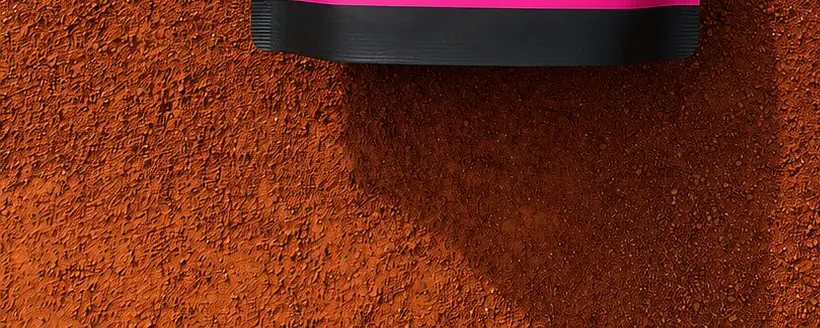
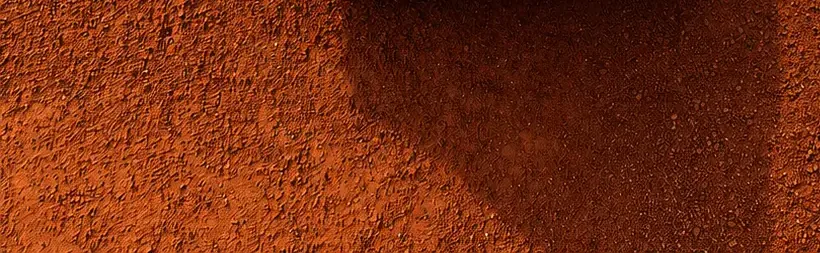
Remove sports marquee band for a cleaner look
Also crop the bag edge out of the clay background texture, which the
band used to cover.

Claude-Session: https://claude.ai/code/session_01EPsi3iTHrtXS3a7TriiJcg

diff --git a/public/index.html b/public/index.html
@@ -61,12 +61,6 @@
   </div>
 </section>
 
-<div class="band" aria-hidden="true">
-  <div class="band-track" id="bandTrack">
-    <span>Tennis</span><i><svg viewBox="-1.25 -.75 2.5 1.5"><path d="M1.0000 0.0000 L0.9979 0.0751 L0.9914 0.1488 L0.9808 0.2200 L0.9659 0.2875 L0.9469 0.3500 L0.9239 0.4066 L0.8969 0.4562 L0.8660 0.4980 L0.8315 0.5312 L0.7934 0.5554 L0.7518 0.5701 L0.7071 0.5750 L0.6593 0.5701 L0.6088 0.5554 L0.5556 0.5312 L0.5000 0.4980 L0.4423 0.4562 L0.3827 0.4066 L0.3214 0.3500 L0.2588 0.2875 L0.1951 0.2200 L0.1305 0.1488 L0.0654 0.0751 L0.0000 0.0000 L-0.0654 -0.0751 L-0.1305 -0.1488 L-0.1951 -0.2200 L-0.2588 -0.2875 L-0.3214 -0.3500 L-0.3827 -0.4066 L-0.4423 -0.4562 L-0.5000 -0.4980 L-0.5556 -0.5312 L-0.6088 -0.5554 L-0.6593 -0.5701 L-0.7071 -0.5750 L-0.7518 -0.5701 L-0.7934 -0.5554 L-0.8315 -0.5312 L-0.8660 -0.4980 L-0.8969 -0.4562 L-0.9239 -0.4066 L-0.9469 -0.3500 L-0.9659 -0.2875 L-0.9808 -0.2200 L-0.9914 -0.1488 L-0.9979 -0.0751 L-1.0000 -0.0000 L-0.9979 0.0751 L-0.9914 0.1488 L-0.9808 0.2200 L-0.9659 0.2875 L-0.9469 0.3500 L-0.9239 0.4066 L-0.8969 0.4562 L-0.8660 0.4980 L-0.8315 0.5312 L-0.7934 0.5554 L-0.7518 0.5701 L-0.7071 0.5750 L-0.6593 0.5701 L-0.6088 0.5554 L-0.5556 0.5312 L-0.5000 0.4980 L-0.4423 0.4562 L-0.3827 0.4066 L-0.3214 0.3500 L-0.2588 0.2875 L-0.1951 0.2200 L-0.1305 0.1488 L-0.0654 0.0751 L-0.0000 0.0000 L0.0654 -0.0751 L0.1305 -0.1488 L0.1951 -0.2200 L0.2588 -0.2875 L0.3214 -0.3500 L0.3827 -0.4066 L0.4423 -0.4562 L0.5000 -0.4980 L0.5556 -0.5312 L0.6088 -0.5554 L0.6593 -0.5701 L0.7071 -0.5750 L0.7518 -0.5701 L0.7934 -0.5554 L0.8315 -0.5312 L0.8660 -0.4980 L0.8969 -0.4562 L0.9239 -0.4066 L0.9469 -0.3500 L0.9659 -0.2875 L0.9808 -0.2200 L0.9914 -0.1488 L0.9979 -0.0751Z"/></svg></i><span>Padel</span><i><svg viewBox="-1.25 -.75 2.5 1.5"><path d="M1.0000 0.0000 L0.9979 0.0751 L0.9914 0.1488 L0.9808 0.2200 L0.9659 0.2875 L0.9469 0.3500 L0.9239 0.4066 L0.8969 0.4562 L0.8660 0.4980 L0.8315 0.5312 L0.7934 0.5554 L0.7518 0.5701 L0.7071 0.5750 L0.6593 0.5701 L0.6088 0.5554 L0.5556 0.5312 L0.5000 0.4980 L0.4423 0.4562 L0.3827 0.4066 L0.3214 0.3500 L0.2588 0.2875 L0.1951 0.2200 L0.1305 0.1488 L0.0654 0.0751 L0.0000 0.0000 L-0.0654 -0.0751 L-0.1305 -0.1488 L-0.1951 -0.2200 L-0.2588 -0.2875 L-0.3214 -0.3500 L-0.3827 -0.4066 L-0.4423 -0.4562 L-0.5000 -0.4980 L-0.5556 -0.5312 L-0.6088 -0.5554 L-0.6593 -0.5701 L-0.7071 -0.5750 L-0.7518 -0.5701 L-0.7934 -0.5554 L-0.8315 -0.5312 L-0.8660 -0.4980 L-0.8969 -0.4562 L-0.9239 -0.4066 L-0.9469 -0.3500 L-0.9659 -0.2875 L-0.9808 -0.2200 L-0.9914 -0.1488 L-0.9979 -0.0751 L-1.0000 -0.0000 L-0.9979 0.0751 L-0.9914 0.1488 L-0.9808 0.2200 L-0.9659 0.2875 L-0.9469 0.3500 L-0.9239 0.4066 L-0.8969 0.4562 L-0.8660 0.4980 L-0.8315 0.5312 L-0.7934 0.5554 L-0.7518 0.5701 L-0.7071 0.5750 L-0.6593 0.5701 L-0.6088 0.5554 L-0.5556 0.5312 L-0.5000 0.4980 L-0.4423 0.4562 L-0.3827 0.4066 L-0.3214 0.3500 L-0.2588 0.2875 L-0.1951 0.2200 L-0.1305 0.1488 L-0.0654 0.0751 L-0.0000 0.0000 L0.0654 -0.0751 L0.1305 -0.1488 L0.1951 -0.2200 L0.2588 -0.2875 L0.3214 -0.3500 L0.3827 -0.4066 L0.4423 -0.4562 L0.5000 -0.4980 L0.5556 -0.5312 L0.6088 -0.5554 L0.6593 -0.5701 L0.7071 -0.5750 L0.7518 -0.5701 L0.7934 -0.5554 L0.8315 -0.5312 L0.8660 -0.4980 L0.8969 -0.4562 L0.9239 -0.4066 L0.9469 -0.3500 L0.9659 -0.2875 L0.9808 -0.2200 L0.9914 -0.1488 L0.9979 -0.0751Z"/></svg></i><span>Squash</span><i><svg viewBox="-1.25 -.75 2.5 1.5"><path d="M1.0000 0.0000 L0.9979 0.0751 L0.9914 0.1488 L0.9808 0.2200 L0.9659 0.2875 L0.9469 0.3500 L0.9239 0.4066 L0.8969 0.4562 L0.8660 0.4980 L0.8315 0.5312 L0.7934 0.5554 L0.7518 0.5701 L0.7071 0.5750 L0.6593 0.5701 L0.6088 0.5554 L0.5556 0.5312 L0.5000 0.4980 L0.4423 0.4562 L0.3827 0.4066 L0.3214 0.3500 L0.2588 0.2875 L0.1951 0.2200 L0.1305 0.1488 L0.0654 0.0751 L0.0000 0.0000 L-0.0654 -0.0751 L-0.1305 -0.1488 L-0.1951 -0.2200 L-0.2588 -0.2875 L-0.3214 -0.3500 L-0.3827 -0.4066 L-0.4423 -0.4562 L-0.5000 -0.4980 L-0.5556 -0.5312 L-0.6088 -0.5554 L-0.6593 -0.5701 L-0.7071 -0.5750 L-0.7518 -0.5701 L-0.7934 -0.5554 L-0.8315 -0.5312 L-0.8660 -0.4980 L-0.8969 -0.4562 L-0.9239 -0.4066 L-0.9469 -0.3500 L-0.9659 -0.2875 L-0.9808 -0.2200 L-0.9914 -0.1488 L-0.9979 -0.0751 L-1.0000 -0.0000 L-0.9979 0.0751 L-0.9914 0.1488 L-0.9808 0.2200 L-0.9659 0.2875 L-0.9469 0.3500 L-0.9239 0.4066 L-0.8969 0.4562 L-0.8660 0.4980 L-0.8315 0.5312 L-0.7934 0.5554 L-0.7518 0.5701 L-0.7071 0.5750 L-0.6593 0.5701 L-0.6088 0.5554 L-0.5556 0.5312 L-0.5000 0.4980 L-0.4423 0.4562 L-0.3827 0.4066 L-0.3214 0.3500 L-0.2588 0.2875 L-0.1951 0.2200 L-0.1305 0.1488 L-0.0654 0.0751 L-0.0000 0.0000 L0.0654 -0.0751 L0.1305 -0.1488 L0.1951 -0.2200 L0.2588 -0.2875 L0.3214 -0.3500 L0.3827 -0.4066 L0.4423 -0.4562 L0.5000 -0.4980 L0.5556 -0.5312 L0.6088 -0.5554 L0.6593 -0.5701 L0.7071 -0.5750 L0.7518 -0.5701 L0.7934 -0.5554 L0.8315 -0.5312 L0.8660 -0.4980 L0.8969 -0.4562 L0.9239 -0.4066 L0.9469 -0.3500 L0.9659 -0.2875 L0.9808 -0.2200 L0.9914 -0.1488 L0.9979 -0.0751Z"/></svg></i><span>Badminton</span><i><svg viewBox="-1.25 -.75 2.5 1.5"><path d="M1.0000 0.0000 L0.9979 0.0751 L0.9914 0.1488 L0.9808 0.2200 L0.9659 0.2875 L0.9469 0.3500 L0.9239 0.4066 L0.8969 0.4562 L0.8660 0.4980 L0.8315 0.5312 L0.7934 0.5554 L0.7518 0.5701 L0.7071 0.5750 L0.6593 0.5701 L0.6088 0.5554 L0.5556 0.5312 L0.5000 0.4980 L0.4423 0.4562 L0.3827 0.4066 L0.3214 0.3500 L0.2588 0.2875 L0.1951 0.2200 L0.1305 0.1488 L0.0654 0.0751 L0.0000 0.0000 L-0.0654 -0.0751 L-0.1305 -0.1488 L-0.1951 -0.2200 L-0.2588 -0.2875 L-0.3214 -0.3500 L-0.3827 -0.4066 L-0.4423 -0.4562 L-0.5000 -0.4980 L-0.5556 -0.5312 L-0.6088 -0.5554 L-0.6593 -0.5701 L-0.7071 -0.5750 L-0.7518 -0.5701 L-0.7934 -0.5554 L-0.8315 -0.5312 L-0.8660 -0.4980 L-0.8969 -0.4562 L-0.9239 -0.4066 L-0.9469 -0.3500 L-0.9659 -0.2875 L-0.9808 -0.2200 L-0.9914 -0.1488 L-0.9979 -0.0751 L-1.0000 -0.0000 L-0.9979 0.0751 L-0.9914 0.1488 L-0.9808 0.2200 L-0.9659 0.2875 L-0.9469 0.3500 L-0.9239 0.4066 L-0.8969 0.4562 L-0.8660 0.4980 L-0.8315 0.5312 L-0.7934 0.5554 L-0.7518 0.5701 L-0.7071 0.5750 L-0.6593 0.5701 L-0.6088 0.5554 L-0.5556 0.5312 L-0.5000 0.4980 L-0.4423 0.4562 L-0.3827 0.4066 L-0.3214 0.3500 L-0.2588 0.2875 L-0.1951 0.2200 L-0.1305 0.1488 L-0.0654 0.0751 L-0.0000 0.0000 L0.0654 -0.0751 L0.1305 -0.1488 L0.1951 -0.2200 L0.2588 -0.2875 L0.3214 -0.3500 L0.3827 -0.4066 L0.4423 -0.4562 L0.5000 -0.4980 L0.5556 -0.5312 L0.6088 -0.5554 L0.6593 -0.5701 L0.7071 -0.5750 L0.7518 -0.5701 L0.7934 -0.5554 L0.8315 -0.5312 L0.8660 -0.4980 L0.8969 -0.4562 L0.9239 -0.4066 L0.9469 -0.3500 L0.9659 -0.2875 L0.9808 -0.2200 L0.9914 -0.1488 L0.9979 -0.0751Z"/></svg></i><span>Tischtennis</span><i><svg viewBox="-1.25 -.75 2.5 1.5"><path d="M1.0000 0.0000 L0.9979 0.0751 L0.9914 0.1488 L0.9808 0.2200 L0.9659 0.2875 L0.9469 0.3500 L0.9239 0.4066 L0.8969 0.4562 L0.8660 0.4980 L0.8315 0.5312 L0.7934 0.5554 L0.7518 0.5701 L0.7071 0.5750 L0.6593 0.5701 L0.6088 0.5554 L0.5556 0.5312 L0.5000 0.4980 L0.4423 0.4562 L0.3827 0.4066 L0.3214 0.3500 L0.2588 0.2875 L0.1951 0.2200 L0.1305 0.1488 L0.0654 0.0751 L0.0000 0.0000 L-0.0654 -0.0751 L-0.1305 -0.1488 L-0.1951 -0.2200 L-0.2588 -0.2875 L-0.3214 -0.3500 L-0.3827 -0.4066 L-0.4423 -0.4562 L-0.5000 -0.4980 L-0.5556 -0.5312 L-0.6088 -0.5554 L-0.6593 -0.5701 L-0.7071 -0.5750 L-0.7518 -0.5701 L-0.7934 -0.5554 L-0.8315 -0.5312 L-0.8660 -0.4980 L-0.8969 -0.4562 L-0.9239 -0.4066 L-0.9469 -0.3500 L-0.9659 -0.2875 L-0.9808 -0.2200 L-0.9914 -0.1488 L-0.9979 -0.0751 L-1.0000 -0.0000 L-0.9979 0.0751 L-0.9914 0.1488 L-0.9808 0.2200 L-0.9659 0.2875 L-0.9469 0.3500 L-0.9239 0.4066 L-0.8969 0.4562 L-0.8660 0.4980 L-0.8315 0.5312 L-0.7934 0.5554 L-0.7518 0.5701 L-0.7071 0.5750 L-0.6593 0.5701 L-0.6088 0.5554 L-0.5556 0.5312 L-0.5000 0.4980 L-0.4423 0.4562 L-0.3827 0.4066 L-0.3214 0.3500 L-0.2588 0.2875 L-0.1951 0.2200 L-0.1305 0.1488 L-0.0654 0.0751 L-0.0000 0.0000 L0.0654 -0.0751 L0.1305 -0.1488 L0.1951 -0.2200 L0.2588 -0.2875 L0.3214 -0.3500 L0.3827 -0.4066 L0.4423 -0.4562 L0.5000 -0.4980 L0.5556 -0.5312 L0.6088 -0.5554 L0.6593 -0.5701 L0.7071 -0.5750 L0.7518 -0.5701 L0.7934 -0.5554 L0.8315 -0.5312 L0.8660 -0.4980 L0.8969 -0.4562 L0.9239 -0.4066 L0.9469 -0.3500 L0.9659 -0.2875 L0.9808 -0.2200 L0.9914 -0.1488 L0.9979 -0.0751Z"/></svg></i><span>Pickleball</span><i><svg viewBox="-1.25 -.75 2.5 1.5"><path d="M1.0000 0.0000 L0.9979 0.0751 L0.9914 0.1488 L0.9808 0.2200 L0.9659 0.2875 L0.9469 0.3500 L0.9239 0.4066 L0.8969 0.4562 L0.8660 0.4980 L0.8315 0.5312 L0.7934 0.5554 L0.7518 0.5701 L0.7071 0.5750 L0.6593 0.5701 L0.6088 0.5554 L0.5556 0.5312 L0.5000 0.4980 L0.4423 0.4562 L0.3827 0.4066 L0.3214 0.3500 L0.2588 0.2875 L0.1951 0.2200 L0.1305 0.1488 L0.0654 0.0751 L0.0000 0.0000 L-0.0654 -0.0751 L-0.1305 -0.1488 L-0.1951 -0.2200 L-0.2588 -0.2875 L-0.3214 -0.3500 L-0.3827 -0.4066 L-0.4423 -0.4562 L-0.5000 -0.4980 L-0.5556 -0.5312 L-0.6088 -0.5554 L-0.6593 -0.5701 L-0.7071 -0.5750 L-0.7518 -0.5701 L-0.7934 -0.5554 L-0.8315 -0.5312 L-0.8660 -0.4980 L-0.8969 -0.4562 L-0.9239 -0.4066 L-0.9469 -0.3500 L-0.9659 -0.2875 L-0.9808 -0.2200 L-0.9914 -0.1488 L-0.9979 -0.0751 L-1.0000 -0.0000 L-0.9979 0.0751 L-0.9914 0.1488 L-0.9808 0.2200 L-0.9659 0.2875 L-0.9469 0.3500 L-0.9239 0.4066 L-0.8969 0.4562 L-0.8660 0.4980 L-0.8315 0.5312 L-0.7934 0.5554 L-0.7518 0.5701 L-0.7071 0.5750 L-0.6593 0.5701 L-0.6088 0.5554 L-0.5556 0.5312 L-0.5000 0.4980 L-0.4423 0.4562 L-0.3827 0.4066 L-0.3214 0.3500 L-0.2588 0.2875 L-0.1951 0.2200 L-0.1305 0.1488 L-0.0654 0.0751 L-0.0000 0.0000 L0.0654 -0.0751 L0.1305 -0.1488 L0.1951 -0.2200 L0.2588 -0.2875 L0.3214 -0.3500 L0.3827 -0.4066 L0.4423 -0.4562 L0.5000 -0.4980 L0.5556 -0.5312 L0.6088 -0.5554 L0.6593 -0.5701 L0.7071 -0.5750 L0.7518 -0.5701 L0.7934 -0.5554 L0.8315 -0.5312 L0.8660 -0.4980 L0.8969 -0.4562 L0.9239 -0.4066 L0.9469 -0.3500 L0.9659 -0.2875 L0.9808 -0.2200 L0.9914 -0.1488 L0.9979 -0.0751Z"/></svg></i>
-  </div>
-</div>
-
 <section class="clay" id="platz">
   <div class="court-line top" id="courtLine"></div>
   <div class="wrap">

diff --git a/public/assets/site.css b/public/assets/site.css
@@ -102,16 +102,8 @@ h2.display{font-size:clamp(2.9rem,8.4vw,6.6rem)}
   .hero .bag{width:40vw;max-width:230px}
 }
 
-/* Laufband */
-.band{position:relative;z-index:4;background:var(--magenta);color:var(--black);transform:rotate(-2deg) scale(1.04);margin-block:-18px 0;overflow:hidden;padding-block:10px}
-.band-track{display:flex;width:max-content;font-family:var(--display);font-style:italic;font-weight:900;text-transform:uppercase;font-size:clamp(2rem,5vw,3.6rem);line-height:1;white-space:nowrap;will-change:transform}
-.band-track span{padding-inline:.45em}
-.band-track i{font-style:normal;display:inline-block;width:.95em;align-self:center;line-height:0}
-.band-track i svg{width:100%;height:auto;overflow:visible}
-.band-track i path{fill:none;stroke:var(--black);stroke-width:.34}
-
 /* Sandplatz */
-.clay{position:relative;background:var(--clay) url("clay.webp") center/cover;color:var(--line);overflow:hidden;margin-top:-30px;padding-block:clamp(110px,14vw,190px) clamp(80px,10vw,140px)}
+.clay{position:relative;background:var(--clay) url("clay.webp") center/cover;color:var(--line);overflow:hidden;padding-block:clamp(110px,14vw,190px) clamp(80px,10vw,140px)}
 .clay::before{content:"";position:absolute;inset:0;background:linear-gradient(180deg,rgba(111,38,13,.25),rgba(111,38,13,.72))}
 .court-line{position:absolute;left:0;right:0;height:clamp(12px,1.6vw,20px);background:var(--line);transform-origin:left center;box-shadow:0 2px 0 rgba(0,0,0,.18)}
 .court-line.top{top:clamp(58px,7vw,96px)}

diff --git a/public/assets/home.js b/public/assets/home.js
@@ -45,18 +45,6 @@
       .to('.bag',{rotation:-6,scale:1.05,ease:'none'},0);
   });
 
-  // Laufband: Tempo folgt dem Scrollen
-  var track=document.getElementById('bandTrack');
-  track.innerHTML+=track.innerHTML+track.innerHTML+track.innerHTML;
-  var unit=track.scrollWidth/4, x=0, boost=0;
-  ScrollTrigger.create({onUpdate:function(s){boost=Math.max(-40,Math.min(40,s.getVelocity()/55))}});
-  gsap.ticker.add(function(t,dt){
-    boost*=.92;
-    x-=(1.4+Math.abs(boost))*(dt/16.7);
-    if(x<=-unit){x+=unit}
-    track.style.transform='translate3d('+x+'px,0,0)';
-  });
-
   // Sandplatz: Linie wird gezogen, Fotos schieben sich
   gsap.fromTo('#courtLine',{scaleX:0},{scaleX:1,ease:'none',scrollTrigger:{trigger:'.clay',start:'top 85%',end:'top 25%',scrub:.4}});
   gsap.to('.clay-photos img:first-child',{y:-50,ease:'none',scrollTrigger:{trigger:'.clay',start:'top bottom',end:'bottom top',scrub:.6}});
